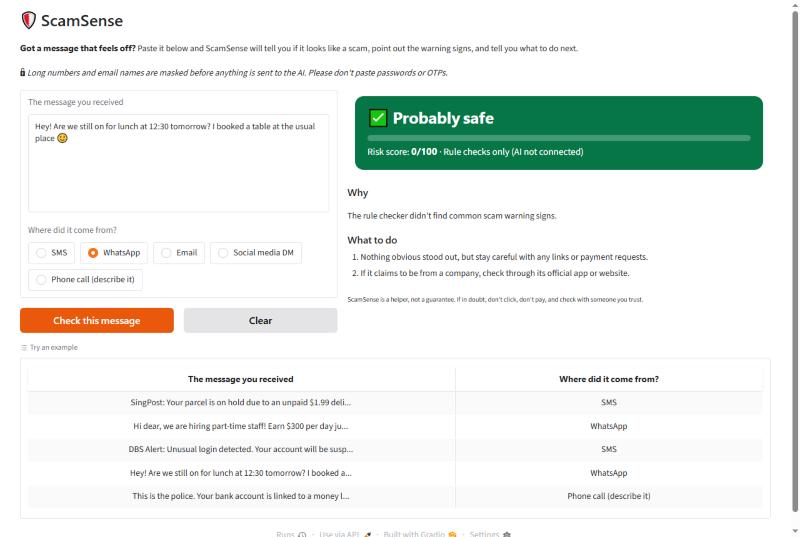
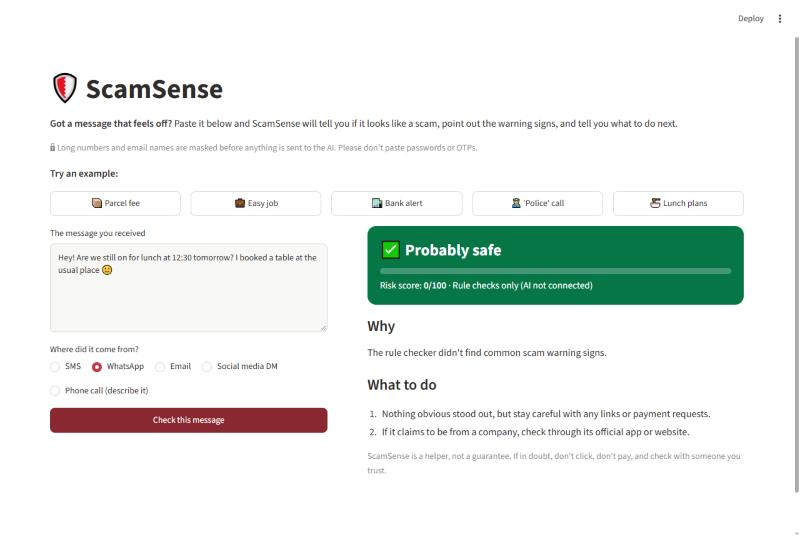
Switch UI to Streamlit for free hosting on Streamlit Community Cloud
Hugging Face now requires PRO for Gradio Spaces. Same rules, AI analysis
and tests; new screenshots; README deploy steps updated.

diff --git a/streamlit_app.py b/streamlit_app.py
@@ -1,0 +1,106 @@
+"""ScamSense: paste a suspicious message, find out if it's a scam.
+
+Run locally:   streamlit run streamlit_app.py
+AI key:        GROQ_API_KEY in .streamlit/secrets.toml, a .env file, or an
+               environment variable. Without it the app uses the rule checker only.
+"""
+
+import html
+import os
+
+import streamlit as st
+
+from analyzer import check_message
+from rules import defang
+
+st.set_page_config(page_title="ScamSense: Is this message a scam?", page_icon="🛡", layout="wide")
+
+# --- API key: Streamlit secrets (cloud) > .env file (local) > environment ---
+try:
+    if "GROQ_API_KEY" in st.secrets:
+        os.environ["GROQ_API_KEY"] = st.secrets["GROQ_API_KEY"]
+except Exception:
+    pass  # no secrets.toml locally; that's fine
+if os.path.exists(".env"):
+    for line in open(".env", encoding="utf-8"):
+        if "=" in line and not line.lstrip().startswith("#"):
+            k, v = line.strip().split("=", 1)
+            os.environ.setdefault(k.strip(), v.strip().strip('"'))
+
+COLOURS = {"Likely scam": "#b42318", "Suspicious": "#b54708", "Probably safe": "#067647"}
+ICONS = {"Likely scam": "🚨", "Suspicious": "⚠", "Probably safe": "✅"}
+CHANNELS = ["SMS", "WhatsApp", "Email", "Social media DM", "Phone call (describe it)"]
+
+EXAMPLES = {
+    "📦 Parcel fee": ("SingPost: Your parcel is on hold due to an unpaid $1.99 delivery fee. Pay within 24 hours or it will be returned: https://singpost-redelivery.top/pay", "SMS"),
+    "💼 Easy job": ("Hi dear, we are hiring part-time staff! Earn $300 per day just by liking videos on TikTok. No experience needed. WhatsApp me at wa.me/6591234567 to start today.", "WhatsApp"),
+    "🏦 Bank alert": ("DBS Alert: Unusual login detected. Your account will be suspended. Verify now at bit.ly/dbs-secure and enter the OTP we send you. Do not share this with anyone.", "SMS"),
+    "👮 'Police' call": ("This is the police. Your bank account is linked to a money laundering case. Transfer your savings to a safe account immediately and do not tell your family.", "Phone call (describe it)"),
+    "🍜 Lunch plans": ("Hey! Are we still on for lunch at 12:30 tomorrow? I booked a table at the usual place 🙂", "WhatsApp"),
+}
+
+
+def load_example(name: str):
+    text, channel = EXAMPLES[name]
+    st.session_state.message = text
+    st.session_state.channel = channel
+    st.session_state.pop("result", None)
+
+
+def verdict_card(result: dict) -> str:
+    v = result["verdict"]
+    scam_type = result.get("scam_type") or ""
+    scam_type = f" · {html.escape(scam_type)}" if scam_type and scam_type != "None detected" else ""
+    mode = "AI analysis + rule checks" if result["mode"] == "ai" else "Rule checks only (AI not connected)"
+    return f"""
+<div style="border-radius:14px;padding:18px 20px;background:{COLOURS[v]};color:#fff;margin-bottom:12px">
+  <div style="font-size:1.6rem;font-weight:700;color:#fff">{ICONS[v]} {v}{scam_type}</div>
+  <div style="margin-top:8px;background:rgba(255,255,255,.25);border-radius:999px;height:10px;overflow:hidden">
+    <div style="width:{result['score']}%;height:100%;background:#fff"></div>
+  </div>
+  <div style="margin-top:6px;font-size:.95rem;color:#fff">Risk score: <b>{result['score']}/100</b> · {mode}</div>
+</div>"""
+
+
+st.title("🛡 ScamSense")
+st.markdown("**Got a message that feels off?** Paste it below and ScamSense will tell you if it looks like a scam, "
+            "point out the warning signs, and tell you what to do next.")
+st.caption("🔒 Long numbers and email names are masked before anything is sent to the AI. Please don't paste passwords or OTPs.")
+
+st.write("**Try an example:**")
+for col, name in zip(st.columns(len(EXAMPLES)), EXAMPLES):
+    col.button(name, on_click=load_example, args=(name,), use_container_width=True)
+
+left, right = st.columns([3, 4], gap="large")
+
+with left:
+    message = st.text_area("The message you received", key="message", height=170, max_chars=5000,
+                           placeholder="e.g. Your parcel is on hold. Pay $1.99 here: …")
+    channel = st.radio("Where did it come from?", CHANNELS, key="channel", horizontal=True)
+    if st.button("Check this message", type="primary", use_container_width=True):
+        if not message.strip():
+            st.warning("Paste a message above first.")
+        else:
+            with st.spinner("Checking…"):
+                st.session_state.result = check_message(message, channel)
+
+with right:
+    result = st.session_state.get("result")
+    if not result:
+        st.info("Your result will appear here.")
+    else:
+        st.markdown(verdict_card(result), unsafe_allow_html=True)
+        if result.get("explanation"):
+            st.markdown(f"#### Why\n{result['explanation']}")
+        if result.get("floor_applied"):
+            st.warning("The rule checker found strong warning signs, so this can't be marked safe.")
+        if result["red_flags"]:
+            lines = []
+            for f in result["red_flags"]:
+                # defang + code span: a scam checker must never show a clickable scam link
+                ev = defang(f.get("evidence", "")).replace("`", "'")
+                lines.append(f"- **{f['flag']}**" + (f" — `{ev}`" if ev else ""))
+            st.markdown("#### Red flags found\n" + "\n".join(lines))
+        if result["what_to_do"]:
+            st.markdown("#### What to do\n" + "\n".join(f"{i}. {s}" for i, s in enumerate(result["what_to_do"], 1)))
+        st.caption("ScamSense is a helper, not a guarantee. If in doubt, don't click, don't pay, and check with someone you trust.")

diff --git a/SUBMISSION.md b/SUBMISSION.md
@@ -11,9 +11,9 @@ Paste any suspicious SMS, WhatsApp message, email or DM and ScamSense tells you 
 Scam messages like fake delivery fees, "your account is suspended" alerts, fake part-time jobs and police impersonation calls are getting more convincing, and the people most at risk often have nobody to ask "is this real?" when the message arrives. ScamSense gives anyone a free, instant second opinion. The user pastes the message and picks where it came from. The app returns a clear verdict (Likely scam / Suspicious / Probably safe), a 0–100 risk score, the red flags quoted word for word, and simple next steps (don't click, verify via the official app, report to ScamShield 1799). It helps elderly people, students, job seekers and anyone who isn't sure.
 
 **AI implementation:**
-ScamSense uses Meta's open-weight Llama 3.3 70B model through Groq's free API, with JSON mode for structured output. A Python rule engine runs first: it detects shortened or lookalike links, OTP/password requests, urgency, payment asks, impersonation and job-scam phrases. It works offline, passes its findings to the AI as hints, and acts as a safety floor so a message that tries to trick the AI ("this is not a scam") can't be marked safe. Personal numbers and email names are masked before text is sent to the AI. The model's answer is validated before display. UI built with Gradio and hosted on Hugging Face Spaces.
+ScamSense uses Meta's open-weight Llama 3.3 70B model through Groq's free API, with JSON mode for structured output. A Python rule engine runs first: it detects shortened or lookalike links, OTP/password requests, urgency, payment asks, impersonation and job-scam phrases. It works offline, passes its findings to the AI as hints, and acts as a safety floor so a message that tries to trick the AI ("this is not a scam") can't be marked safe. Personal numbers and email names are masked before text is sent to the AI. The model's answer is validated before display. UI built with Streamlit and hosted free on Streamlit Community Cloud.
 
-**Working application:** _<Hugging Face Space URL>_
-**Source code:** _<GitHub repo URL>_
-**Demo:** _<video link or screenshots in /screenshots>_
+**Working application:** _LIVE_URL_
+**Source code:** https://github.com/Xavierfok/scamsense
+**Demo:** Screenshots in https://github.com/Xavierfok/scamsense/tree/main/screenshots
 **Contribution:** see CONTRIBUTION.md

diff --git a/CONTRIBUTION.md b/CONTRIBUTION.md
@@ -9,7 +9,7 @@
 - **Privacy redaction:** numbers and email names are masked before any text goes to the AI
 - **Prompt design:** a system prompt that treats the message as untrusted and forces structured JSON output
 - **Validation + tests:** the AI's output is checked and cleaned; 12 pytest tests cover the rules, redaction, rules-only mode and the safety floor
-- **Gradio interface** with examples, and deployment to Hugging Face Spaces
+- **Streamlit interface** with one-click examples, deployed free on Streamlit Community Cloud
 
 ## AI-assisted development tools I used
 
@@ -20,7 +20,7 @@
 - [e.g. how to call an LLM API and get reliable JSON back]
 - [e.g. what prompt injection is, and why rules are a useful backstop for AI]
 - [e.g. how regular expressions work, and the false positives I had to fix, like an email address being counted as a link]
-- [e.g. deploying to Hugging Face Spaces and keeping an API key secret]
+- [e.g. deploying to Streamlit Community Cloud and keeping an API key secret; Hugging Face turned out to charge for Gradio Spaces, so I rebuilt the UI in Streamlit]
 
 ## Challenges
 
